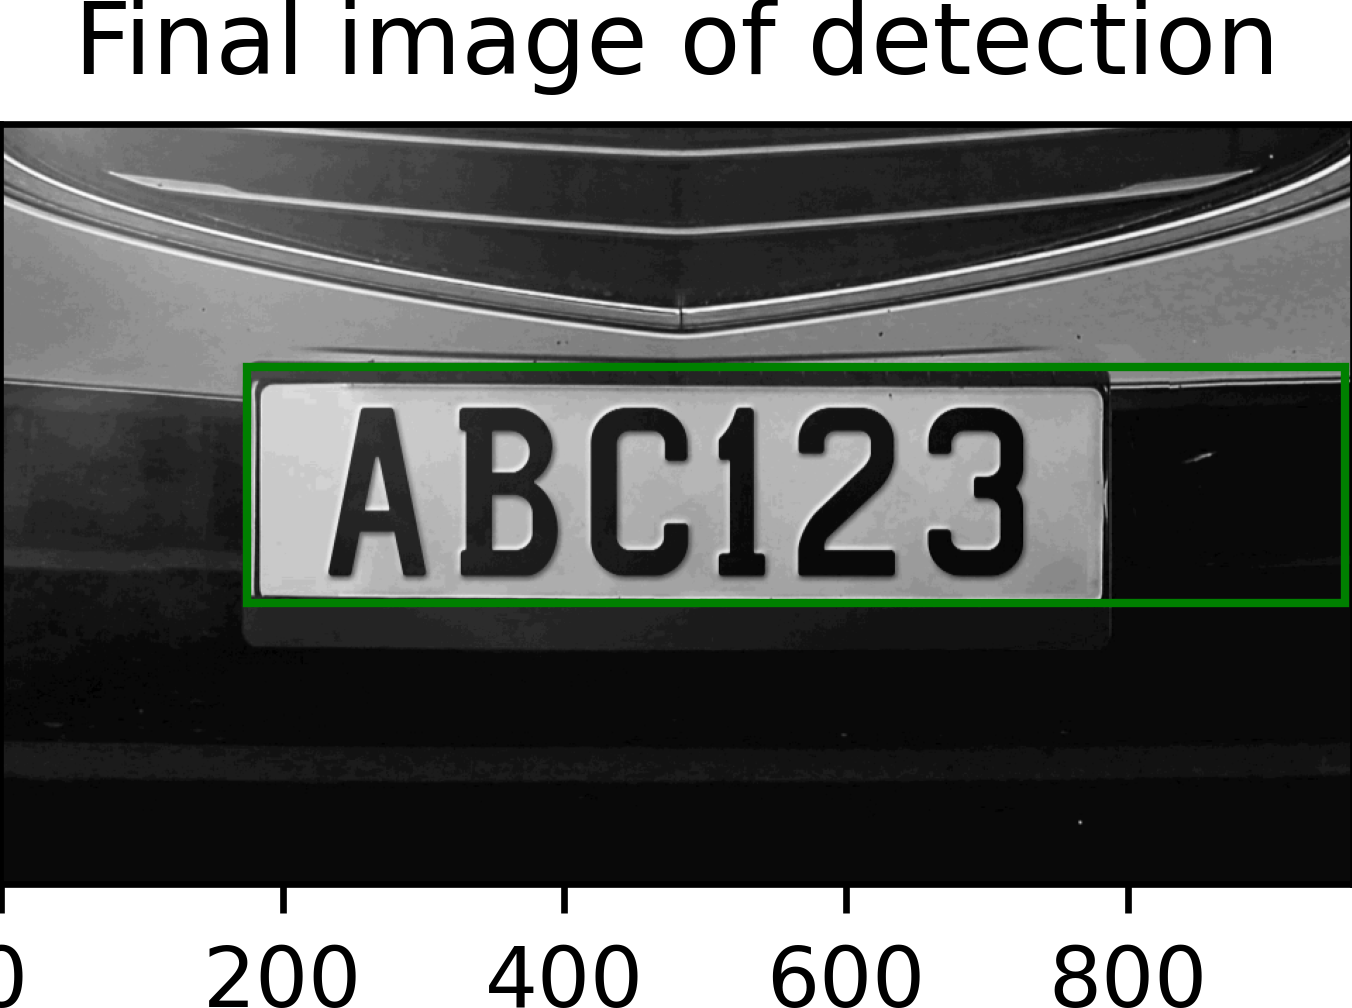
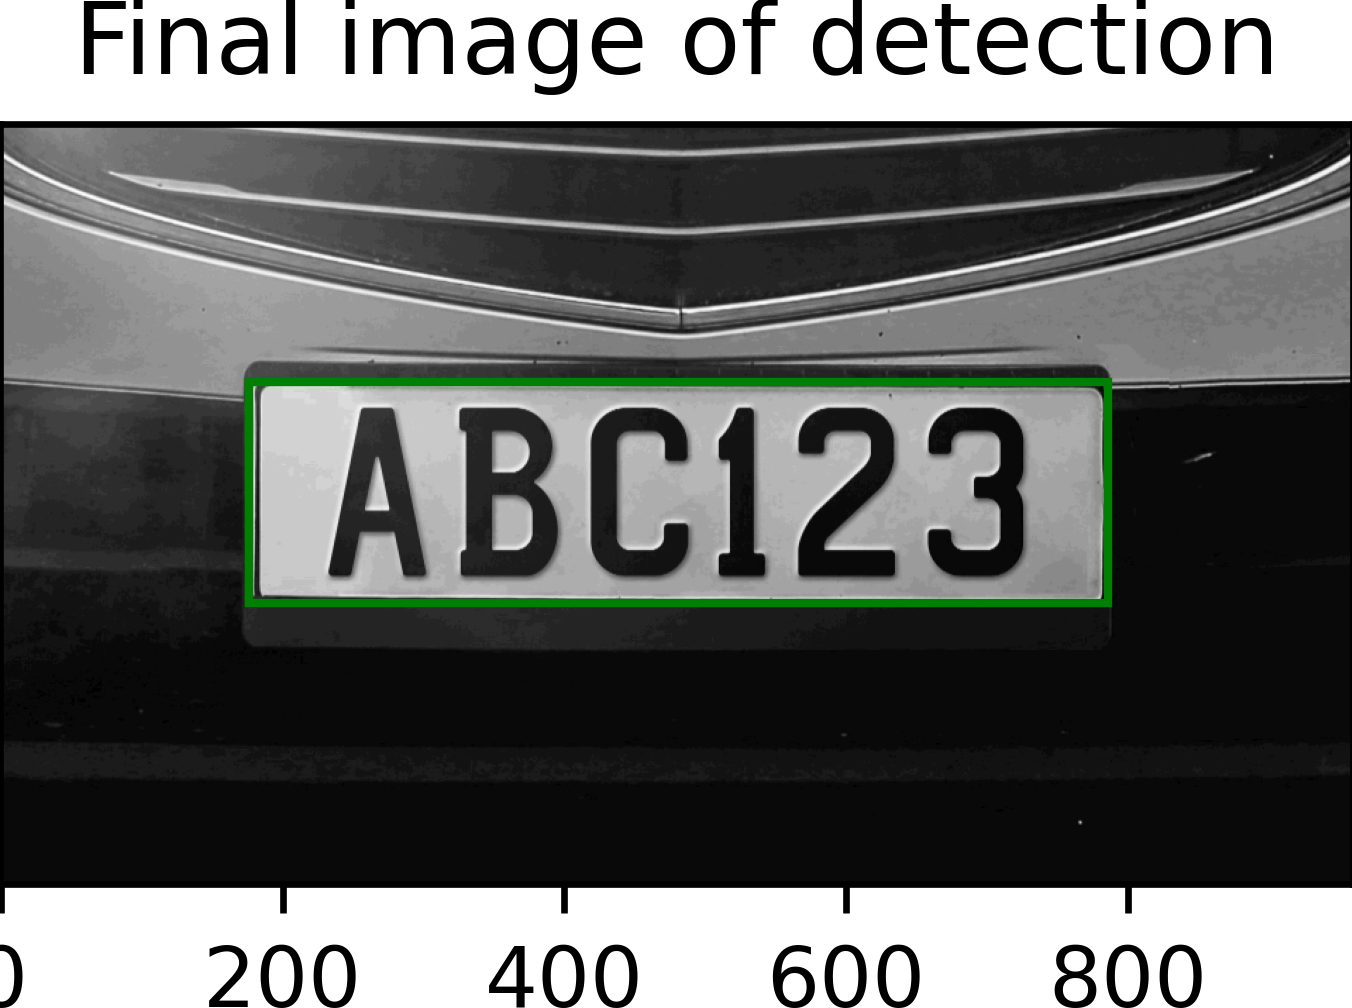
Changed threshold value and total steps for dilation and erosion

Changed region(s): [[0.1864, 0.3383, 1.0, 0.6151]]

diff --git a/CS373LicensePlateDetection.py b/CS373LicensePlateDetection.py
@@ -357,14 +357,14 @@ def main():
     px_array = scaleTo0And255AndQuantize(px_array, image_width, image_height)
 
     # Step 3: Perform thresholding operation
-    threshold_value = 150
+    threshold_value = 140
     px_array = computeThresholdGE(px_array, threshold_value, image_width, image_height)
 
     # Step 4: Perform morphological closing with multiple dilation and erosion steps
-    for test in range(4):
+    for test in range(3):
         px_array = computeDilation8Nbh3x3FlatSE(px_array, image_width, image_height)
 
-    for test in range(4):
+    for test in range(3):
         px_array = computeErosion8Nbh3x3FlatSE(px_array, image_width, image_height)
 
     # Step 5: Finding bounding box
